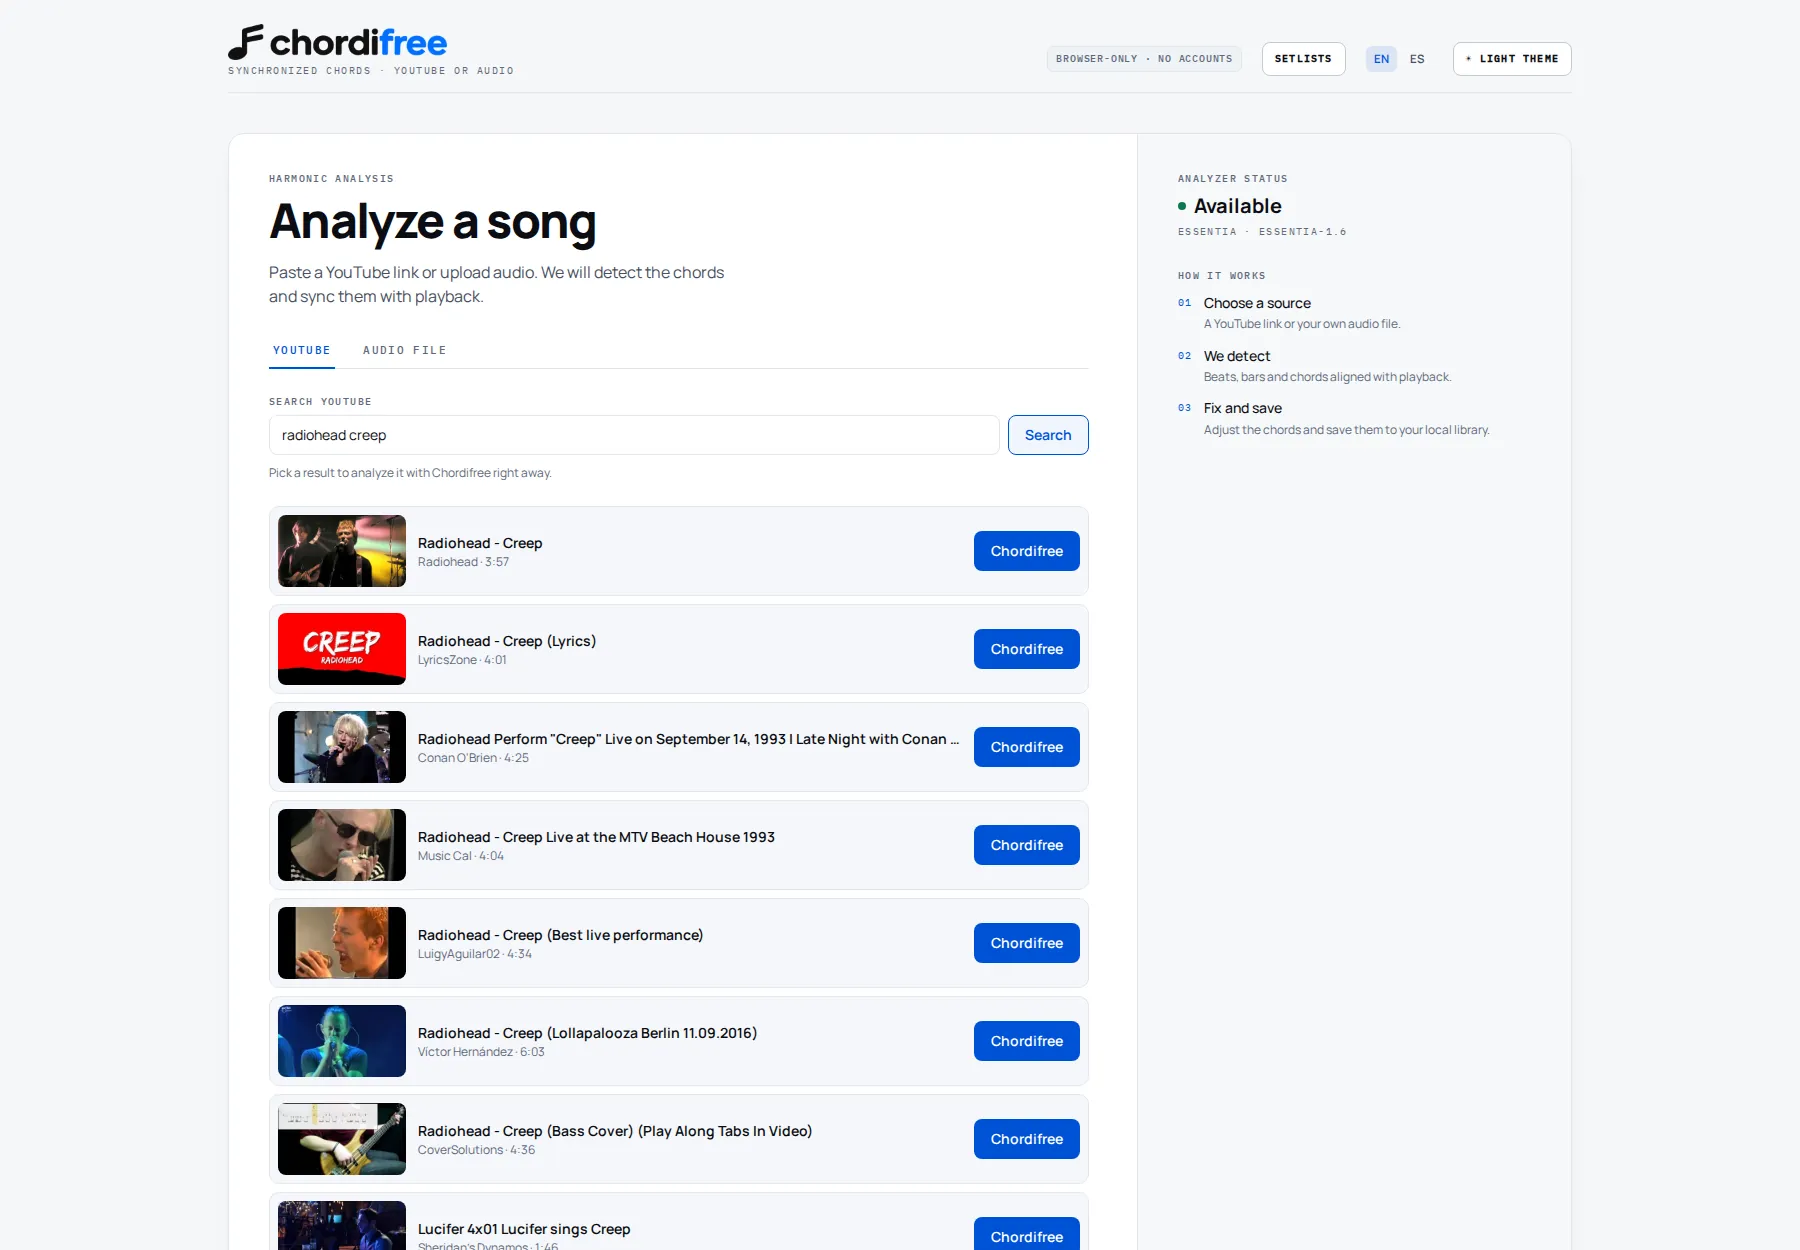
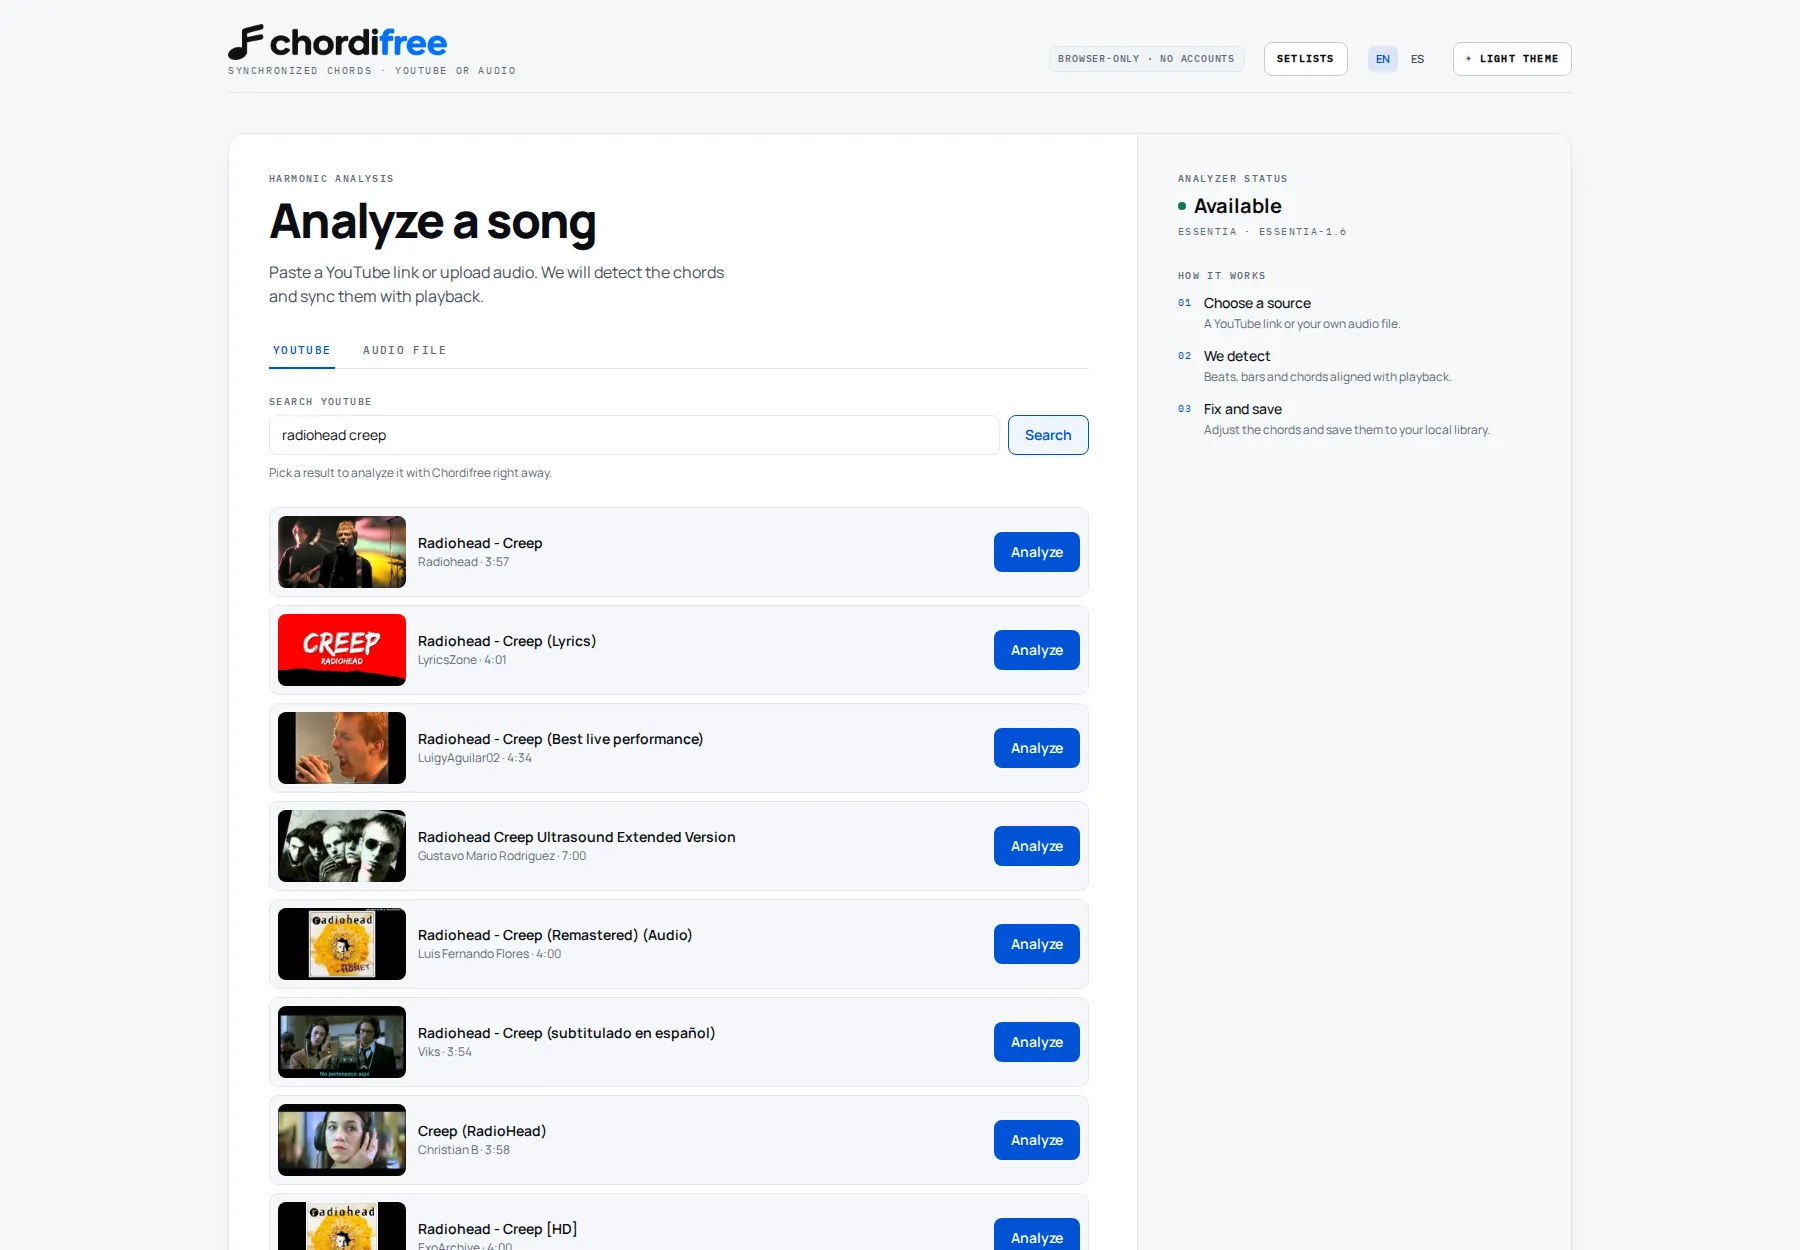
fix: rename the search action and show its progress
The result button now says Analyze/Analizar instead of the brand name, and it names the action it performs. While the job starts, the button shows a spinner and 'Analyzing…', the row takes an accent border, and aria-busy plus a translated label announce the state. Refresh the search screenshot and the landing copy.

diff --git a/apps/web/src/components/Home.tsx b/apps/web/src/components/Home.tsx
@@ -70,6 +70,7 @@ export function Home({
   const [query, setQuery] = useState('');
   const [results, setResults] = useState<YoutubeSearchResult[] | null>(null);
   const [searching, setSearching] = useState(false);
+  const [analyzingId, setAnalyzingId] = useState<string | null>(null);
   const retryRef = useRef<(() => void) | null>(null);
   const searchAbortRef = useRef<AbortController | null>(null);
 
@@ -143,10 +144,15 @@ export function Home({
     }
   };
 
-  const loadSearchResult = (result: YoutubeSearchResult) => {
+  const loadSearchResult = async (result: YoutubeSearchResult) => {
     const input = `https://www.youtube.com/watch?v=${result.videoId}`;
     setUrl(input);
-    void submitYoutube(input);
+    setAnalyzingId(result.videoId);
+    try {
+      await submitYoutube(input);
+    } finally {
+      setAnalyzingId(null);
+    }
   };
 
   const submitUpload = async () => {
@@ -273,6 +279,7 @@ export function Home({
                     ) : (
                       <ul className="space-y-2">
                         {results.map((item) => {
+                          const analyzing = analyzingId === item.videoId;
                           const meta = [
                             item.uploader,
                             typeof item.duration === 'number'
@@ -284,7 +291,11 @@ export function Home({
                           return (
                             <li
                               key={item.videoId}
-                              className="flex items-center gap-3 rounded-lg border border-line bg-panel-2/60 p-2"
+                              className={`flex items-center gap-3 rounded-lg border p-2 ${
+                                analyzing
+                                  ? 'border-accent/50 bg-accent/5'
+                                  : 'border-line bg-panel-2/60'
+                              }`}
                             >
                               <img
                                 src={item.thumbnail}
@@ -309,11 +320,26 @@ export function Home({
                               <button
                                 type="button"
                                 className="btn btn-primary shrink-0"
-                                onClick={() => loadSearchResult(item)}
+                                onClick={() => void loadSearchResult(item)}
                                 disabled={busy}
-                                aria-label={t('home.loadVideo', { title: item.title })}
+                                aria-busy={analyzing || undefined}
+                                aria-label={
+                                  analyzing
+                                    ? t('home.analyzingVideo', { title: item.title })
+                                    : t('home.analyzeVideo', { title: item.title })
+                                }
                               >
-                                {t('home.loadWithChordifree')}
+                                {analyzing ? (
+                                  <>
+                                    <span
+                                      aria-hidden="true"
+                                      className="h-3.5 w-3.5 animate-spin rounded-full border-2 border-current border-t-transparent"
+                                    />
+                                    {t('home.analyzing')}
+                                  </>
+                                ) : (
+                                  t('home.analyzeResult')
+                                )}
                               </button>
                             </li>
                           );

diff --git a/apps/web/tests/home.test.tsx b/apps/web/tests/home.test.tsx
@@ -190,7 +190,7 @@ describe('Home', () => {
     });
   });
 
-  it('searches YouTube and loads a result with the Chordifree button', async () => {
+  it('searches YouTube and analyzes a result with the Analyze button', async () => {
     const fetchMock = vi.fn(async (url: string, init?: RequestInit) => {
       if (url.startsWith('/api/youtube/search')) {
         return response({
@@ -235,7 +235,7 @@ describe('Home', () => {
     ).toBeInTheDocument();
 
     fireEvent.click(
-      screen.getByRole('button', { name: 'Cargar Never Gonna Give You Up con Chordifree' }),
+      screen.getByRole('button', { name: 'Analizar Never Gonna Give You Up' }),
     );
 
     await waitFor(() => expect(onAnalyzed).toHaveBeenCalledTimes(1));
@@ -247,6 +247,63 @@ describe('Home', () => {
       '/api/youtube/search?q=rick+astley',
       expect.objectContaining({ signal: expect.any(AbortSignal) }),
     );
+  });
+
+  it('shows the analyzing state on the result while the job starts', async () => {
+    let release!: () => void;
+    const gate = new Promise<void>((resolve) => {
+      release = resolve;
+    });
+    const fetchMock = vi.fn(async (url: string, init?: RequestInit) => {
+      if (url.startsWith('/api/youtube/search')) {
+        return response({
+          results: [
+            {
+              videoId: 'dQw4w9WgXcQ',
+              title: 'Never Gonna Give You Up',
+              uploader: 'Rick Astley',
+              duration: 213,
+              thumbnail: 'https://i.ytimg.com/vi/dQw4w9WgXcQ/mqdefault.jpg',
+            },
+          ],
+        });
+      }
+      if (init?.method === 'POST') {
+        await gate;
+        return response({
+          id: 'job-5',
+          status: 'queued',
+          progress: 0,
+          source: { type: 'youtube', videoId: 'dQw4w9WgXcQ' },
+        });
+      }
+      return response({
+        id: 'job-5',
+        status: 'done',
+        progress: 100,
+        result: analysisResult(),
+      });
+    });
+    vi.stubGlobal('fetch', fetchMock);
+    const { onAnalyzed } = renderHome();
+
+    fireEvent.change(screen.getByLabelText('Buscar en YouTube'), {
+      target: { value: 'rick astley' },
+    });
+    fireEvent.click(screen.getByRole('button', { name: 'Buscar' }));
+
+    fireEvent.click(
+      await screen.findByRole('button', { name: 'Analizar Never Gonna Give You Up' }),
+    );
+
+    const analyzing = await screen.findByRole('button', {
+      name: 'Analizando Never Gonna Give You Up',
+    });
+    expect(analyzing).toHaveTextContent('Analizando…');
+    expect(analyzing).toHaveAttribute('aria-busy', 'true');
+
+    release();
+    await waitFor(() => expect(onAnalyzed).toHaveBeenCalledTimes(1));
   });
 
   it('requires a query before searching', async () => {

diff --git a/apps/web/src/i18n/messages.ts b/apps/web/src/i18n/messages.ts
@@ -75,8 +75,9 @@ const en = {
   'home.searchRequired': 'Type something to search.',
   'home.searchFailed': 'Could not search YouTube. Try again.',
   'home.orPasteLink': 'Or paste a link',
-  'home.loadWithChordifree': 'Chordifree',
-  'home.loadVideo': 'Load {title} with Chordifree',
+  'home.analyzeResult': 'Analyze',
+  'home.analyzeVideo': 'Analyze {title}',
+  'home.analyzingVideo': 'Analyzing {title}',
   'home.uploadLabel': 'Audio file',
   'home.uploadHelp':
     'MP3, WAV, M4A, OGG, FLAC, WebM or MP4 · max 25 MB and 15 minutes. Audio is not saved to the library.',
@@ -646,8 +647,9 @@ const es: Record<MessageKey, string> = {
   'home.searchRequired': 'Escribe algo para buscar.',
   'home.searchFailed': 'No se pudo buscar en YouTube. Inténtalo de nuevo.',
   'home.orPasteLink': 'O pega un enlace',
-  'home.loadWithChordifree': 'Chordifree',
-  'home.loadVideo': 'Cargar {title} con Chordifree',
+  'home.analyzeResult': 'Analizar',
+  'home.analyzeVideo': 'Analizar {title}',
+  'home.analyzingVideo': 'Analizando {title}',
   'home.uploadLabel': 'Archivo de audio',
   'home.uploadHelp':
     'MP3, WAV, M4A, OGG, FLAC, WebM o MP4 · máximo 25 MB y 15 minutos. El audio no se guarda en la biblioteca.',

diff --git a/site/index.html b/site/index.html
@@ -221,7 +221,7 @@
               <h3 data-i18n="feature.find.title">Find</h3>
               <p data-i18n="feature.find.body">
                 Search YouTube by name. Each result shows the thumbnail, channel and duration,
-                and one click on Chordifree analyzes the song.
+                and one click analyzes the song.
               </p>
             </div>
             <span class="track-tag" data-i18n="feature.find.tag">One click</span>
@@ -293,7 +293,7 @@
             </div>
             <img
               src="assets/app-search.webp"
-              alt="Chordifree search for Radiohead Creep with video thumbnails, channel names, durations and a Chordifree button next to each result."
+              alt="Chordifree search for Radiohead Creep with video thumbnails, channel names, durations and an Analyze button next to each result."
               width="1800"
               height="1250"
               loading="lazy"

diff --git a/apps/web/e2e/app.spec.ts b/apps/web/e2e/app.spec.ts
@@ -88,7 +88,7 @@ test.describe('full flow', () => {
     await expect(page.getByRole('button', { name: 'Detectar acordes' })).toBeVisible();
   });
 
-  test('searches YouTube and loads a result with the Chordifree button', async ({ page }) => {
+  test('searches YouTube and analyzes a result with the Analyze button', async ({ page }) => {
     await page.route('**/api/youtube/search**', (route) =>
       route.fulfill({
         status: 200,
@@ -115,7 +115,7 @@ test.describe('full flow', () => {
     await expect(page.getByText('Rick Astley · 3:33')).toBeVisible();
 
     await page
-      .getByRole('button', { name: 'Cargar Never Gonna Give You Up con Chordifree' })
+      .getByRole('button', { name: 'Analizar Never Gonna Give You Up' })
       .click();
 
     await expect(page.getByRole('heading', { name: 'Demo sincronizada' })).toBeVisible();

diff --git a/site/app.js b/site/app.js
@@ -36,7 +36,7 @@ const spanish = {
     'Todas las vistas salen del mismo análisis: tonalidad, rejilla de pulsos, compases, acordes y las partes donde alguien canta.',
   'feature.find.title': 'Encuentra',
   'feature.find.body':
-    'Busca en YouTube por nombre. Cada resultado muestra la miniatura, el canal y la duración, y un clic en Chordifree analiza la canción.',
+    'Busca en YouTube por nombre. Cada resultado muestra la miniatura, el canal y la duración, y un clic analiza la canción.',
   'feature.find.tag': 'Un clic',
   'feature.1.title': 'Detecta',
   'feature.1.body':

diff --git a/README.es.md b/README.es.md
@@ -5,8 +5,8 @@
 Convierte un video musical de YouTube (o un audio propio) en una línea de tiempo de acordes
 sincronizada con la reproducción. Permite trasponer ±11 semitonos y cambiar entre notación
 inglesa (`C`, `Am`, `F#`) y española (`Do`, `Lam`, `Fa#`). También puedes buscar por nombre en
-YouTube: cada resultado muestra la miniatura, el canal y la duración, y el botón **Chordifree**
-analiza la canción al momento.
+YouTube: cada resultado muestra la miniatura, el canal y la duración, y un clic analiza la
+canción al momento.
 
 Hecho por [Moisés Lodeiro](https://github.com/moiseslodeiro), de un músico para músicos y músicas.
 

diff --git a/README.md b/README.md
@@ -62,7 +62,7 @@ When the app is behind a proxy, set `CORS_ORIGIN` to the public origin (for exam
 
 - **Chord detection** with Essentia `NNLSChroma`, key estimation and Viterbi smoothing.
 - **YouTube search** by name: the results show the thumbnail, channel and duration, and one
-  click on **Chordifree** loads the song.
+  click analyzes the song.
 - **Beat grid** with one row per bar, active-beat highlighting and keyboard navigation.
 - **Bar view** with one chord per bar and automatic tempo/phase adjustment.
 - **Lyrics view** with approximate timing, vocal-region detection and manual anchors.
